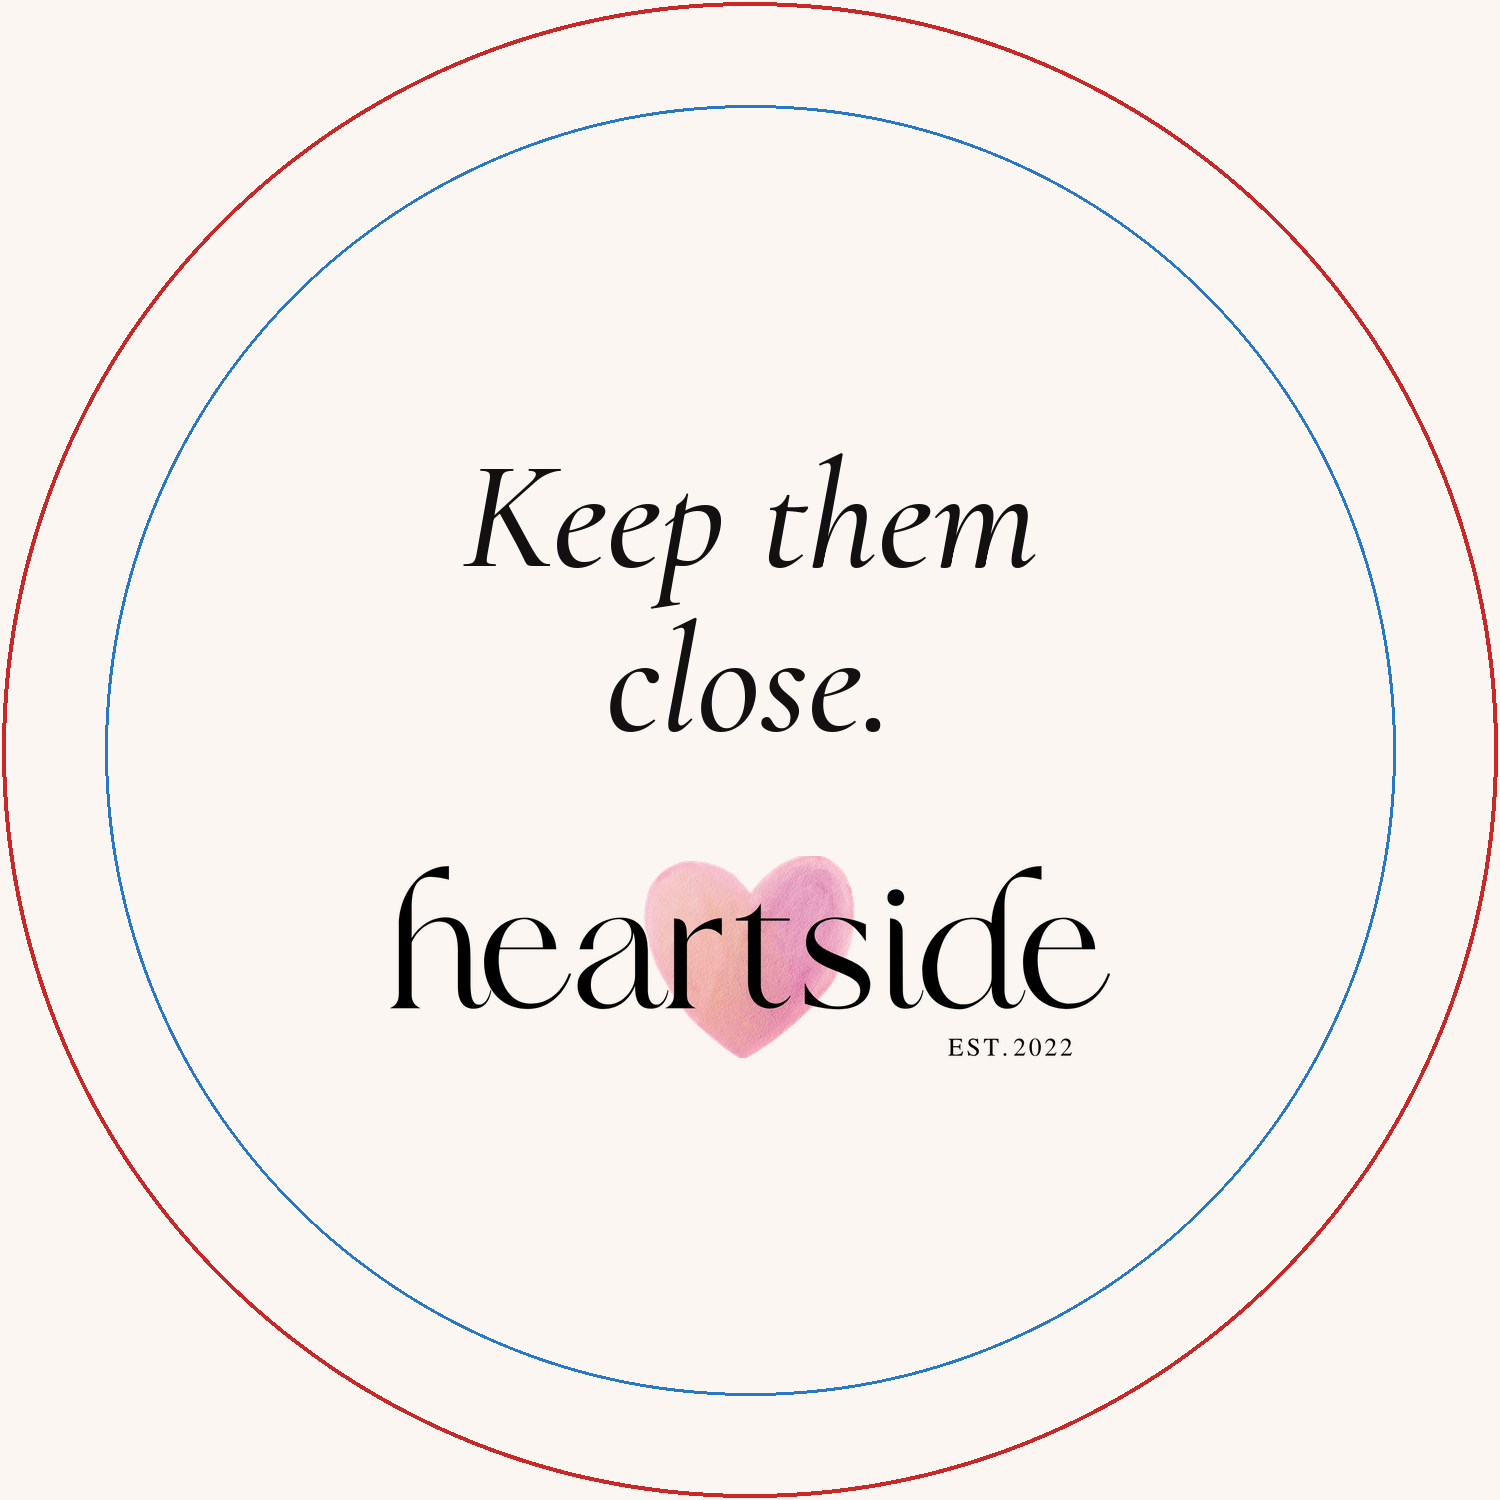
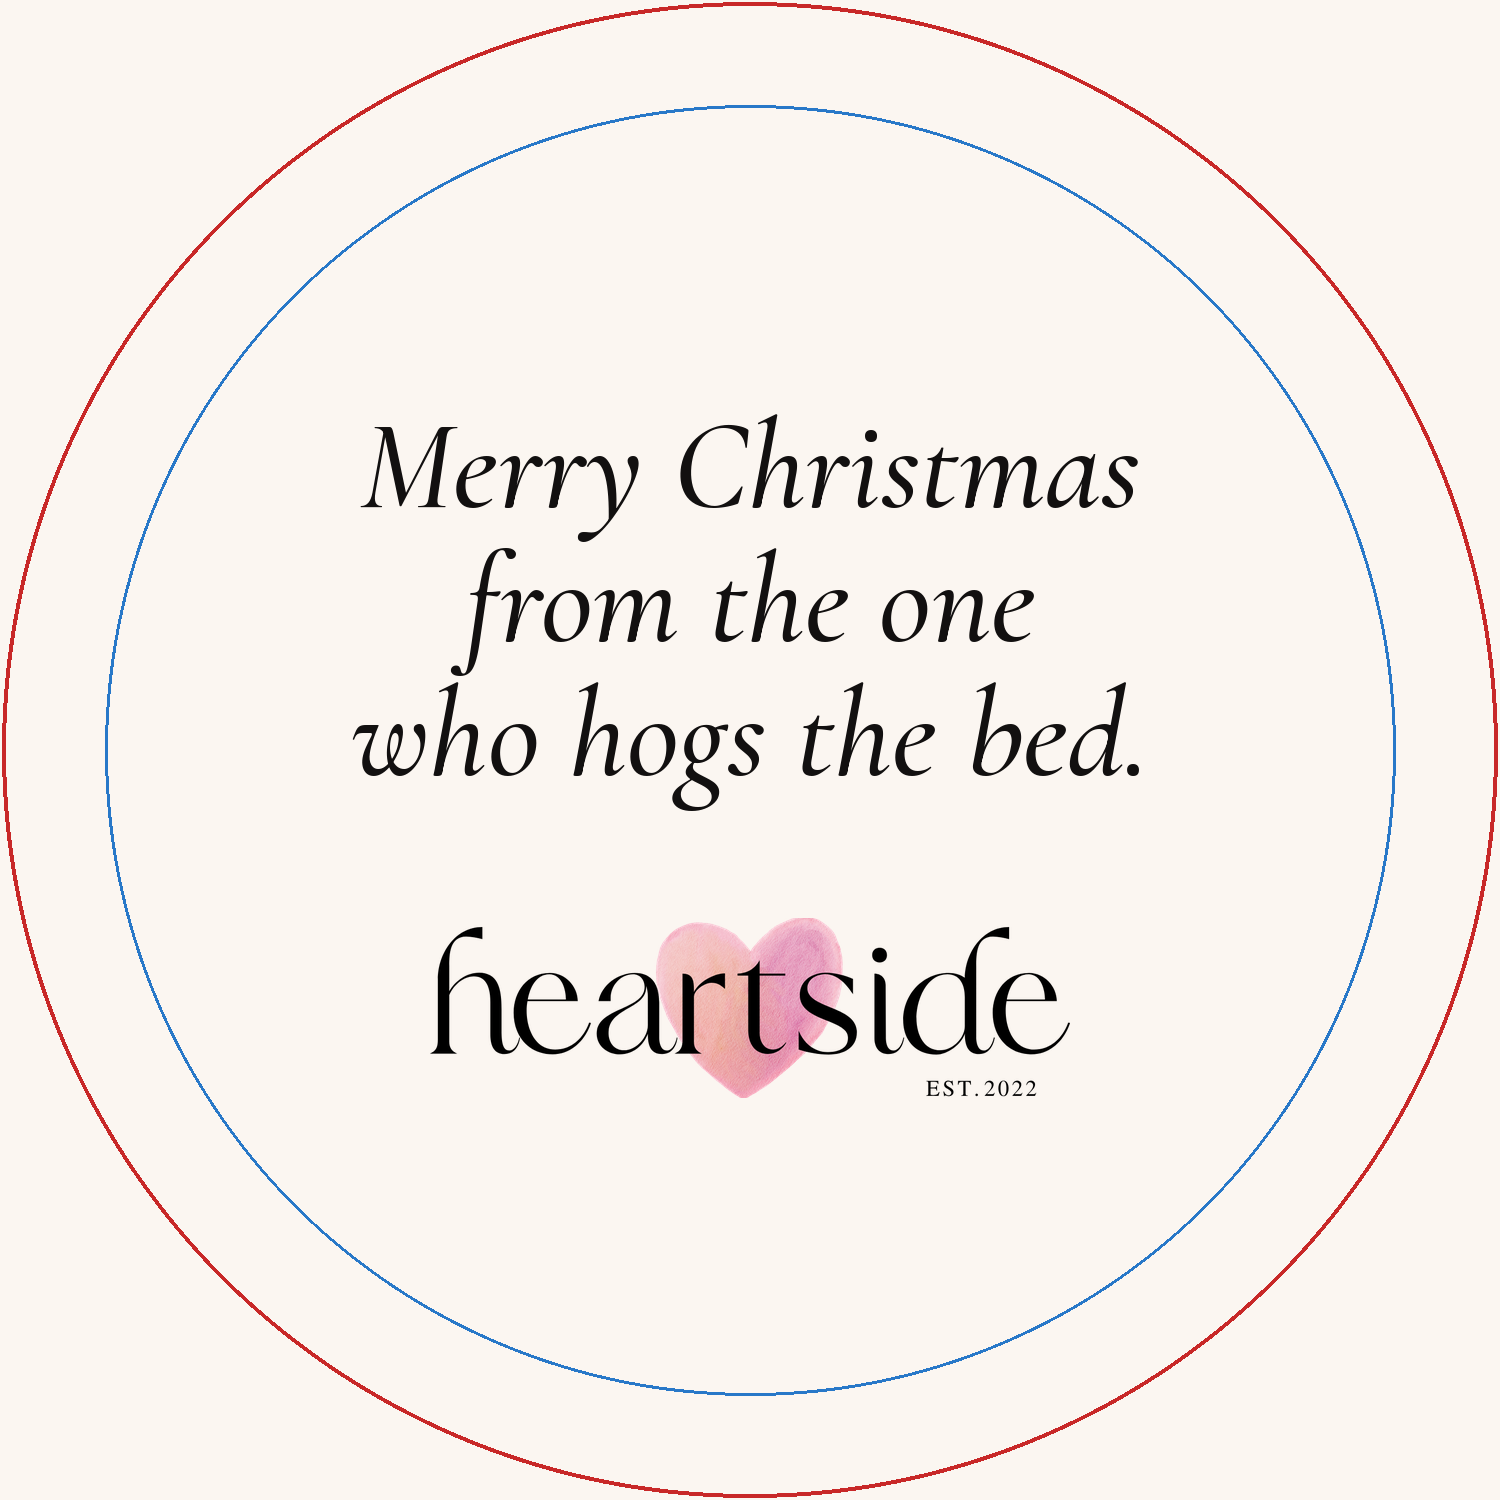
Push the ornament harder: dog's-joke back, three back options, sales pack
- Back defaults to "Merry Christmas from the one who hogs the bed." so the
  flip-over lands a laugh after the front's "aww"; "best present" and the
  briefed "Keep them close." stay as print-ready options in back-options/
- ornament/SELL.md: product page, share mechanics, video concepts G to J,
  ten hooks, real-deadline urgency, and the lines that stay out
- AD-BRIEF.md points to the ornament concepts as the new priority

Claude-Session: https://claude.ai/code/session_01VSXMUdKNd8jScxXzQJSiAw

Changed region(s): [[0.2453, 0.276, 0.7667, 0.736], [0.644, 0.46, 0.7667, 0.5213]]

diff --git a/tools/build_ornament.py b/tools/build_ornament.py
@@ -133,22 +133,47 @@ def compose_front(photo, name, frame, win, win_box, focus=(0.5, 0.45)):
 
 # ----------------------------------------------------------------- back ----
 
-def build_back():
+# The back is the flip-over moment: the front makes them go "aww", the back makes
+# them laugh. Every option is built so Krish can swap with one word.
+BACK_LINES = {
+    # Recommended. The dog is talking: it turns the ornament into a gift "from the
+    # dog" and gives every video a second beat when the ornament is turned over.
+    "hogs-the-bed": ["Merry Christmas", "from the one", "who hogs the bed."],
+    "best-present": ["The best present", "is asleep", "on the sofa."],
+    "keep-them-close": ["Keep them", "close."],          # the brand line, as briefed
+}
+BACK_DEFAULT = "hogs-the-bed"
+
+
+def build_back(variant=BACK_DEFAULT):
     img = Image.new("RGBA", (S, S), CREAM + (255,))
     d = ImageDraw.Draw(img)
+    lines = BACK_LINES[variant]
 
-    # "Keep them close." — the brand line, large, centred slightly above middle
-    f = font("CormorantGaramond-MediumItalic.ttf", 156)
-    d.text((C, 516), "Keep them", font=f, fill=INK, anchor="mm")
-    d.text((C, 680), "close.", font=f, fill=INK, anchor="mm")
+    # Size the line so the widest row sits comfortably inside the safe circle
+    size = 156 if len(lines) == 2 else 128
+    f = font("CormorantGaramond-MediumItalic.ttf", size)
+    while max(d.textlength(t, font=f) for t in lines) > 900:
+        size -= 4
+        f = font("CormorantGaramond-MediumItalic.ttf", size)
+    lead = round(size * 1.05)
 
-    # Heartside mark: the supplied wordmark, as given, under the line. 720 px wide
-    # keeps its hairlines printable on a 3" disc ("EST. 2022" will read as a fine line).
+    # Heartside mark: the supplied wordmark, as given, under the line. 640-720 px
+    # wide keeps its hairlines printable on a 3" disc ("EST. 2022" reads as a fine line).
     logo = Image.open(ASSETS / "heartside-logo.png").convert("RGBA")
     logo = logo.crop(logo.getchannel("A").getbbox())
-    lw = 720
+    lw = 720 if len(lines) == 2 else 640
     logo = logo.resize((lw, round(logo.height * lw / logo.width)), Image.LANCZOS)
-    img.alpha_composite(logo, (C - lw // 2, 856))
+
+    # Stack the line and the wordmark as one block, centred on the disc
+    gap = 120
+    text_h = lead * (len(lines) - 1) + size
+    top = C - (text_h + gap + logo.height) // 2
+    y = top + size // 2
+    for t in lines:
+        d.text((C, y), t, font=f, fill=INK, anchor="mm")
+        y += lead
+    img.alpha_composite(logo, (C - lw // 2, top + text_h + gap))
     return img
 
 
@@ -228,6 +253,20 @@ def preview_sheet(fronts, back):
     return sheet
 
 
+def options_sheet(backs):
+    W, H = 2400, 900
+    sheet = Image.new("RGBA", (W, H), CREAM + (255,))
+    d = ImageDraw.Draw(sheet)
+    lab = font("DMSans-Medium.ttf", 26)
+    slot = W // len(backs)
+    for i, (key, face) in enumerate(backs):
+        r = ornament_render(face, 600)
+        sheet.alpha_composite(r, (i * slot + (slot - r.width) // 2, 0))
+        tag = key + ("  ·  recommended" if key == BACK_DEFAULT else "")
+        d.text((i * slot + slot // 2, 850), tag, font=lab, fill=INK, anchor="mm")
+    return sheet
+
+
 def names_sheet(fronts):
     W, H = 2400, 900
     sheet = Image.new("RGBA", (W, H), CREAM + (255,))
@@ -300,9 +339,16 @@ def main():
     sample = compose_front(dog, "Biscuit", frame, win, win_box, focus)
     sample.convert("RGB").save(OUT / "front-sample-biscuit.png", optimize=True)
 
-    # 3. Back
+    # 3. Back (default line), plus every option as its own print-ready file
     back = build_back()
     back.convert("RGB").save(OUT / "back.png", optimize=True)
+    (OUT / "back-options").mkdir(exist_ok=True)
+    backs = []
+    for key in BACK_LINES:
+        b = build_back(key)
+        b.convert("RGB").save(OUT / "back-options" / f"back-{key}.png", optimize=True)
+        backs.append((key, b))
+    options_sheet(backs).convert("RGB").save(OUT / "preview" / "back-options.png", optimize=True)
 
     # 4. Checking and selling previews
     guide_overlay(sample).convert("RGB").save(OUT / "preview" / "front-with-guides.png")

diff --git a/ornament/SELL.md b/ornament/SELL.md
@@ -1,0 +1,102 @@
+# Selling the "Their Person" ornament
+
+Krish's instruction (4 October 2026): pull out every stop on emotion, humour, shareability and conversion. This file turns that into the product page, the share mechanics and the videos. Read `docs/BRIEF.md` section 1 for the voice and section 10 for the guardrails. The guardrails are why this sells, so they stay (see the last section).
+
+## The idea in one line
+
+**Who's your person?** The front makes you go "aww" (*Biscuit is my person.*). The back makes you laugh (*Merry Christmas from the one who hogs the bed.*). Every video, product photo and caption is built on that flip.
+
+Why it converts:
+
+- **Owners see themselves.** Their phone is already full of photos of the dog. The ornament gives one of those photos a place on the tree, and the name makes it unmistakably theirs.
+- **Givers look thoughtful.** A gift with the dog's face and name shows you noticed what matters to someone. That is what a gift buyer is paying for, and it is why they forward the product page to a sibling.
+- **The humour makes it shareable.** "The one who hogs the bed" is true of most small dogs, and people tag the friend it's true of. Tags and DM sends are what the algorithms reward.
+- **It's bought in multiples.** The dog's "grandma" wants one, so a second unit costs nothing to sell.
+
+## Product page, top to bottom
+
+| Slot | Copy |
+|---|---|
+| Headline | **Put the real favourite on the tree.** |
+| Subline | Their photo in our watercolour heart, their name underneath, and a note from them on the back. |
+| Price | ~~$34.99~~ **$24.49**, 30% off until 1 November. Free US shipping. |
+| Personalise button | Add their photo |
+| Photo help text | Face close to the camera, in good light. We'll fit it into the heart. Buying for someone else? A clear photo from their Instagram works. |
+| Name field | What's their name? Placeholder *e.g. Biscuit*, up to 14 characters |
+| Order-by line | *Order by [confirmed date] for Christmas.* Publish only the date the print provider confirms. |
+| Second-unit prompt | **One for your tree, one for their grandma's.** Add another and personalise it the same way. |
+| Image 1 | Front render with the sample dog (`preview/ornament-front-back.png`, left half) |
+| Image 2 | The back, so the joke lands on the product page too |
+| Image 3 | Name-length test, cropped to one ornament (shows the name in full type) |
+| Image 4 | The ornament on a real tree, once a sample arrives |
+| Below the fold | What it is (size, ceramic, both sides printed, hanger), the order-by dates, returns ("personalised items can't be returned unless we misprint them"), and the line *A person checks every photo before it prints*, if Krish keeps the manual review |
+
+Thank-you page and confirmation email: **"[Name] is going on the tree. Who else needs one?"** Add a share link to the product page. This is the cheapest viral loop in the store, so build it before launch.
+
+## Share mechanics that cost nothing
+
+1. **The live preview is the ad.** Printify's personaliser shows the buyer their dog on the ornament before checkout. People screenshot that and send it to someone ("look"), so the preview has to look this good, which the heart window does.
+2. **Caption CTAs ask for a tag or a send, never a like.** "Tag the person whose dog is their whole personality." "Send this to whoever calls your dog their grandchild."
+3. **The flip is a second beat in every video.** Turning the ornament over gives a reveal, a laugh and a reason to rewatch. Rewatches lift completion rate.
+4. **The dog's name in every customer message.** Order confirmation, shipping, review request. The brief already sets this; it matters more here because the name is printed on the product.
+
+## Videos for the ornament
+
+These come before the sling concepts in `docs/AD-BRIEF.md`, because the ornament is now the hero. The specs, file naming, disclosure rules and test plan there still apply. Use the real product once a sample arrives. A generated ornament must match the print file exactly: the same heart, the same line, the same back.
+
+### G. "The flip" (lead concept)
+
+| Time | Picture | On-screen text |
+|---|---|---|
+| 0-2 | A hand hangs the ornament on a tree; the dog's face in the heart catches the light | Who's your person? |
+| 2-5 | Close on the front | *(none, let it land)* |
+| 5-8 | The hand turns it over: "Merry Christmas from the one who hogs the bed." | *(none)* |
+| 8-11 | Hard cut: the dog asleep diagonally across a whole bed, owner's foot hanging off the edge | He's not wrong. |
+| 11-15 | Both sides, then the logo | Put the real favourite on the tree. 30% off until 1 Nov. |
+
+Sound: soft piano under the front, one beat of silence, then the cut to the bed lands on the joke.
+Caption: *Tag the person whose dog sleeps like this.*
+
+### H. "Ask your dog"
+
+Text on screen over the dog looking straight at camera: **"Ask your dog who their person is."** Hold on the stare for two seconds. Cut to the ornament: *Biscuit is my person.* Text: **"Obviously."**
+Caption: *Who's yours? Tag them.*
+
+### I. "Dog grandma"
+
+Text: **"The dog's grandma is getting one too."** Two ornaments are wrapped on a kitchen table, and a gift tag reads "Love, Biscuit". End on: *One for your tree, one for theirs.*
+Caption: *Send this to whoever calls your dog their grandchild.*
+This one exists to sell the second unit.
+
+### J. "Lock screen"
+
+The cheapest one to make. A phone wakes up, and the lock screen is a dog. Text: **"Your dog is already your lock screen."** Cut to the same dog in the ornament on a tree: **"Put them on the tree."**
+Caption: *Send this to someone whose lock screen is their dog.*
+
+### Ten more first-two-second hooks to test
+
+1. Who's your person?
+2. Ask your dog who their person is.
+3. Send this to someone whose dog sleeps in the bed.
+4. The only ornament that hogs the bed.
+5. Your dog is already your lock screen.
+6. POV: you remembered the dog's name.
+7. Every family has a favourite. Ours has four legs.
+8. Your dog has better photos than you. Put one on the tree.
+9. The dog's grandma is getting one too.
+10. Merry Christmas from the one who hogs the bed.
+
+Judge hooks on shares and sends per 1,000 views first, then 3-second hold. A hook that is held but not sent is entertaining without selling.
+
+## Urgency, using only real deadlines
+
+- **Until 1 November:** 30% off and free US shipping. The countdown is real, so show it everywhere: announcement bar, product page, the last frame of every video.
+- **From 2 November:** the Christmas order-by date becomes the deadline, and for a gift it's the stronger one. "Order by [date] for Christmas" goes on the product page, in the cart, in the checkout notice and in captions. Use the confirmed date only.
+- **The week of the order-by date:** one email and one post, "Last few days to get [Name] on the tree by Christmas." It's true, and it's the highest-intent moment of the season.
+
+## What stays out, and why it protects sales
+
+- **Guilt and mortality** ("they won't be here forever"), and anything about loss or memorials. It's the most tempting line for an ornament, and the brief rules it out. It would make Heartside a grief brand, and the front only works because the dog is right there on the sofa.
+- **Fake scarcity** (resetting timers, "only 3 left", "selling fast"). The product is printed on demand, so any stock claim would be false. False urgency is an FTC enforcement area, and misleading claims break Meta's and TikTok's ad policies.
+- **Invented reactions and reviews**, including AI-generated "customers" crying at their gift. The FTC rule on fake reviews and testimonials (in force since October 2024) carries civil penalties, and a restricted ad account sells nothing. Real reactions from real buyers, with permission, are the best content you'll get, so ask for them in the review email.
+- **AI-generated people presented as real.** Label generated footage where the platform requires it (see `docs/AD-BRIEF.md` section 2).

diff --git a/ornament/README.md b/ornament/README.md
@@ -1,6 +1,6 @@
 # The "Their Person" ornament: print files and Printify setup
 
-The hero product from `docs/HANDOFF.md`. It's a round ceramic ornament. The front shows the customer's dog inside the Heartside watercolour heart, with "[Name] is my person." underneath. The back says "Keep them close." above the wordmark.
+The hero product from `docs/HANDOFF.md`. It's a round ceramic ornament. The front shows the customer's dog inside the Heartside watercolour heart, with "[Name] is my person." underneath. The back is the punchline: "Merry Christmas from the one who hogs the bed." above the wordmark. How it sells (product page, share mechanics, videos) is in `SELL.md`.
 
 ![Front and back](preview/ornament-front-back.png)
 
@@ -9,7 +9,11 @@ The hero product from `docs/HANDOFF.md`. It's a round ceramic ornament. The fron
 - **The photo window is the brand heart itself.** I took the outline of `assets/heartside-heart-watercolor.png`, pulled it in by 24 px and cut the photo window from it, so a rim of real watercolour shows all the way round. It keeps the hand-painted wobble of the brand heart, which is what makes it read as hand-drawn rather than a heart icon. It also keeps to the "one heart at a time" rule.
 - **The name sits on its own line, with "is my person." smaller underneath.** A name of any length then centres cleanly, and the sentence still reads as one thought. Names up to 13 characters fit at full size (see the test below). The character limit is set at 14.
 - **Cream background, full bleed.** Brand cream `#FBF6F1` is close to the white of the glazed ceramic, so if the print lands a fraction off the edge, no white sliver shows.
-- **Weights are one step heavier than on screen.** Cormorant Garamond Medium and Medium Italic, so the thin strokes survive printing at 3 inches. The wordmark on the back is 720 px wide on the file (about 1.4 inches). That keeps its letters clear. "EST. 2022" will print as a fine line.
+- **Weights are one step heavier than on screen.** Cormorant Garamond Medium and Medium Italic, so the thin strokes survive printing at 3 inches. The wordmark on the back is 640 to 720 px wide on the file (about 1.3 to 1.4 inches). That keeps its letters clear. "EST. 2022" will print as a fine line.
+- **The back is a joke from the dog.** The front makes people go "aww", and turning it over makes them laugh. That flip gives every video a second beat, and it makes the ornament a gift "from the dog". The handoff asked for "Keep them close." on the back, and it's still built as an option. All three backs are print-ready in `back-options/`; to change the default, edit `BACK_DEFAULT` in `tools/build_ornament.py`.
+
+  ![Back options](preview/back-options.png)
+
 - **No offer, date or year on the ornament.** It's a keepsake, so it shouldn't date. A year on the back ("Christmas 2026") is a common ornament convention and an easy add if you want it. It's one line in `tools/build_ornament.py`.
 
 ![Name length test](preview/name-length-test.png)
@@ -24,7 +28,8 @@ All print files are 1500 × 1500 px, square. That is about 500 px per inch on th
 | `front-heart-window-mask.png` | White heart on black, full canvas: the photo window | Any editor with a mask or clip feature, and the fallback script |
 | `front-heart-window-shape.png` | The same window as a transparent shape, cropped to its own size (715 × 681) | Tools that want a clipping shape |
 | `front-sample-biscuit.png` | The finished front with the sample dog and "Biscuit" | Product images, the Shopify listing, and anywhere the editor needs real artwork to save |
-| `back.png` | "Keep them close." and the wordmark | Back print area, fill |
+| `back.png` | The default back: "Merry Christmas from the one who hogs the bed." and the wordmark | Back print area, fill |
+| `back-options/` | All three backs, print-ready: `hogs-the-bed`, `best-present`, `keep-them-close` | Swap any of them in for `back.png` |
 | `preview/` | Product render, guides overlay and name-length test | For checking only. Don't upload these as print files |
 
 To rebuild everything from the brand assets, run `python3 tools/build_ornament.py` (needs `pip install pillow`).
@@ -63,16 +68,9 @@ That writes `ornament/orders/Biscuit.png` (the print file) and `Biscuit-check.pn
 
 **2. The price clears the floor, with a ceiling on cost.** At $34.99 list, the price after 30% off is $24.49. The floor rule (landed cost + 3% + $0.30 + $8) means landed cost (ornament + print + US shipping) can be at most **$15.45**. The base price starts around $4.90. Check that the double-sided print and the provider's first-item US shipping together stay under $15.45. If not, raise the list price rather than dropping the discount.
 
-## Product page copy (draft)
+## Product page copy
 
-These drafts follow the voice rules in `docs/BRIEF.md` section 1.
-
-- **Title:** Their Person Ornament
-- **Promise:** Their face and their name, on the tree every year.
-- **Body:** A round ceramic ornament with your dog's photo inside our watercolour heart, and one line underneath: *[Name] is my person.* On the back, *Keep them close.* Upload a photo, add their name, and it goes to print with both.
-- **Photo field:** "Their best photo." Help text: "Face close to the camera, in good light. We'll fit it into the heart. Buying for someone else? A clear photo from their Instagram works."
-- **Name field:** "What's their name?" Placeholder "e.g. Biscuit". Up to 14 characters.
-- **Fine print to confirm with the print provider before publishing:** size (2.99" round), ceramic with glossy finish, printed both sides, what it hangs from (ribbon or string), production time, and the order-by date for Christmas.
+The product page, the share mechanics and the video concepts are in `SELL.md`. Fine print to confirm with the print provider before publishing: size (2.99" round), ceramic with glossy finish, printed both sides, what it hangs from (ribbon or string), production time, and the order-by date for Christmas.
 
 ## Still open on this product
 

diff --git a/docs/AD-BRIEF.md b/docs/AD-BRIEF.md
@@ -2,6 +2,8 @@
 
 For Claude Code, Higgsfield and Krish. Read `BRIEF.md` first, especially section 1 (the feeling), section 7 (visual direction) and section 10 (guardrails). This document turns them into videos.
 
+> **Update, 4 October 2026.** The "Their Person" ornament is now the hero product. Its concepts (G to J: "The flip", "Ask your dog", "Dog grandma", "Lock screen") and hooks are in `../ornament/SELL.md`, and they take priority over the concepts below. The specs, disclosure rules and test plan in this file still apply to them.
+
 ---
 
 ## 1. What the videos must do
